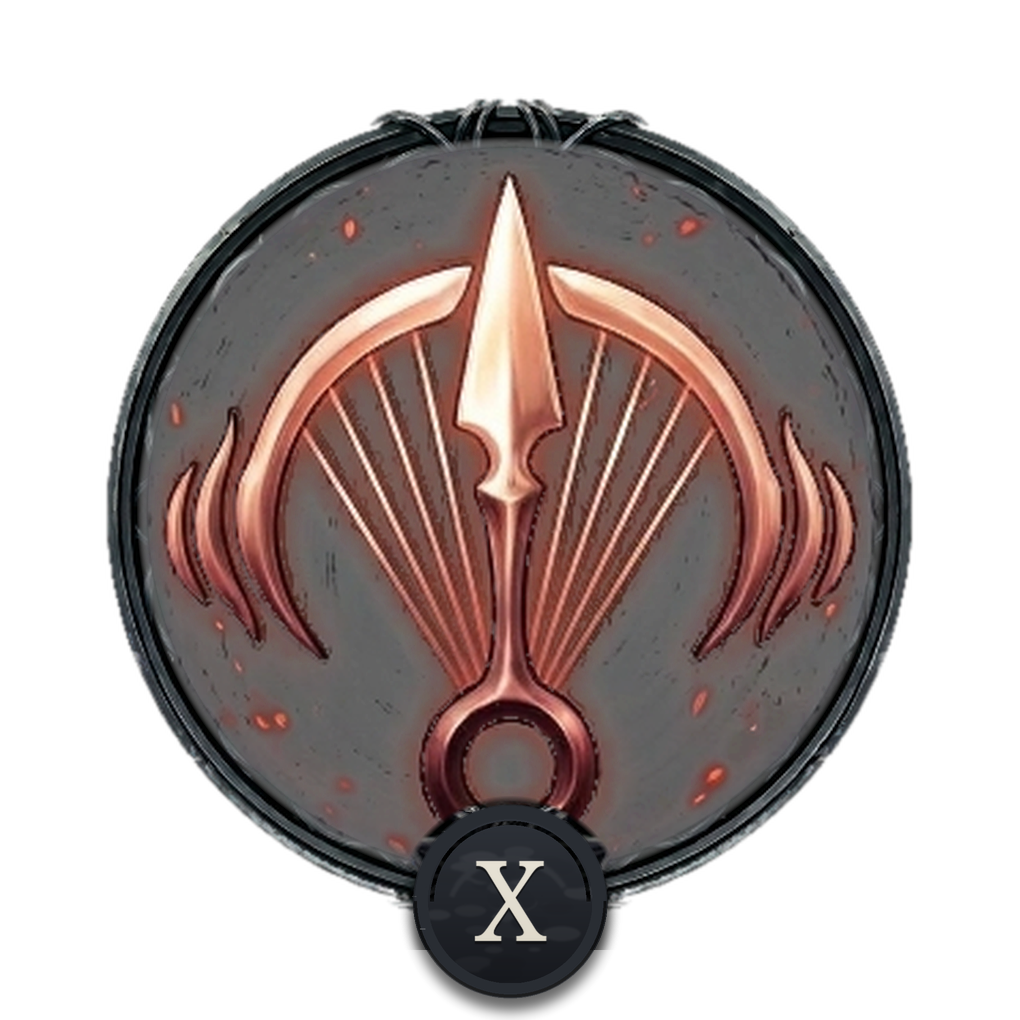
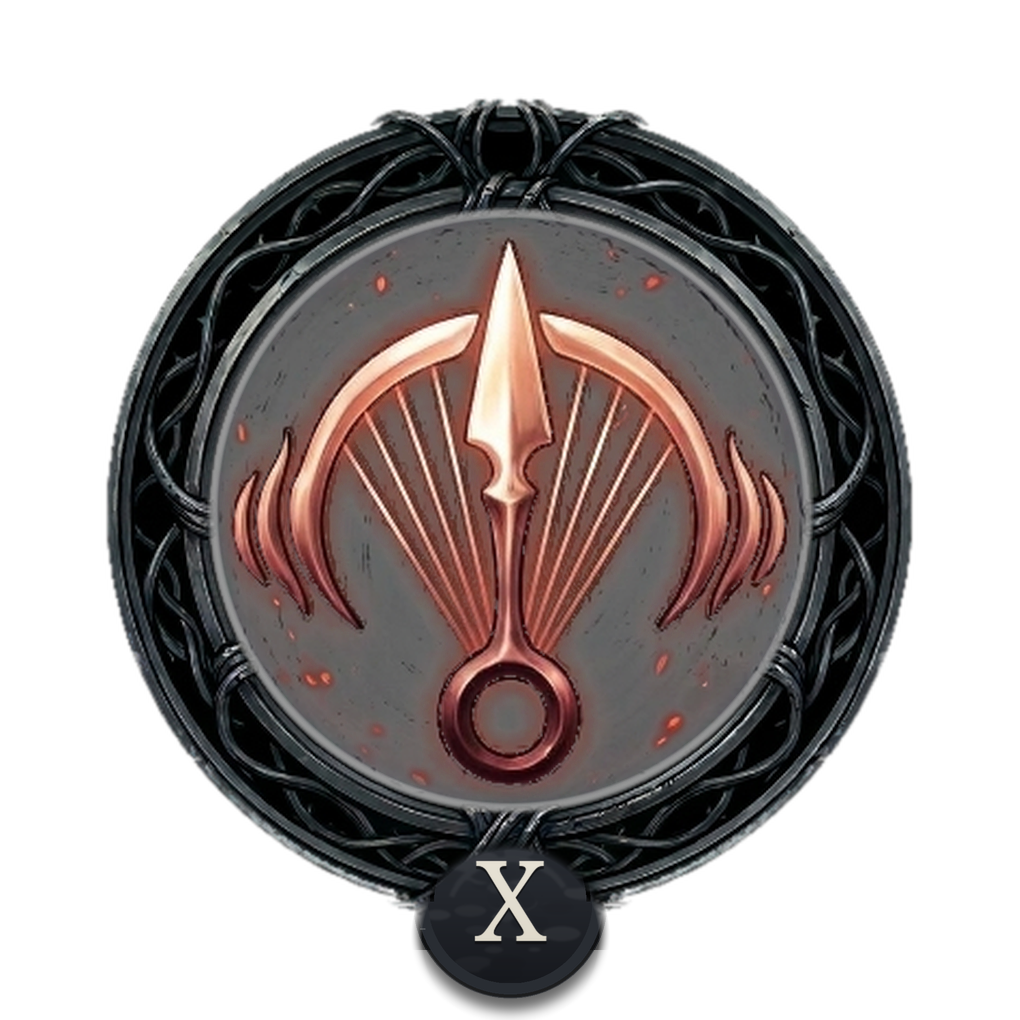
Silksong pad: the cluster keys at 0.9 with unified 30pt edge gaps (the fan tightened on its jump pivot, the row and the Needolin-Bind gap alike), the thorn Needolin's full woven frame restored in the plain and badge skins, and the layout editor's bar moved to the key-free top centre

Changed region(s): [[0.1216, 0.1216, 0.8814, 0.9422]]

diff --git a/dm/ios/Sources/DmGamepad.m b/dm/ios/Sources/DmGamepad.m
@@ -142,13 +142,13 @@ static BOOL padSkin(void) { const char *e = getenv("DM_PAD_SKIN"); return e && a
 static int silkSkinMode(void) { const char *e = getenv("DM_SILK_SKIN"); int m = e ? atoi(e) : 1; return m < 0 ? 0 : m > 3 ? 3 : m; }   // the launcher's button-skin choice for this pad: 0 glass, 1 the image skin, 2 the letter-badge skin (dm/padskin-badge), 3 the black-iron skin (dm/padskin-metal, the plain set's canvas, so no badge scaling); the image skin (1) when unset
 enum { SK_ALWAYS, SK_SKILL, SK_TOGGLE };
 static const struct { const char *art; int bit; int grp; CGFloat x, y, r; } k_skin[] = {
-    {"attack",   B_Y,     SK_ALWAYS, 0.770, 0.770, 0.0416},   // needle attack: the fan's left key, level with the jump pivot
-    {"jump",     B_B,     SK_ALWAYS, 0.898, 0.770, 0.0533},   // the fan's pivot at the bottom-right corner, the largest key
-    {"dash",     B_ZR,    SK_ALWAYS, 0.808, 0.574, 0.0416},   // Swift Step: tap dashes, hold sprints; the fan's 45-degree key
-    {"tool",     B_R,     SK_SKILL,  0.6055, 0.770, 0.0282},   // the equipped tool: in the attack row, leftmost of the three, a 45pt edge gap to Clawline at the reference size; an eye-key skill key
-    {"needolin", B_X,     SK_SKILL,  0.898, 0.2999, 0.0282},   // Needolin: above Bind in its column, a 45pt edge gap over it at the reference size, in its original round frame; an eye-key skill key (the eye hides it with the other two)
-    {"bind",     B_A,     SK_ALWAYS, 0.898, 0.493, 0.0416},   // Bind (heal): the fan's top key, straight above the jump pivot
-    {"clawline", B_ZL,    SK_SKILL,  0.6810, 0.770, 0.0282},   // Clawline: in the attack row between tool and attack, a 45pt edge gap each side at the reference size; an eye-key skill key
+    {"attack",   B_Y,     SK_ALWAYS, 0.7859, 0.770, 0.0374},   // needle attack: the fan's left key, level with the jump pivot
+    {"jump",     B_B,     SK_ALWAYS, 0.898, 0.770, 0.0480},   // the fan's pivot at the bottom-right corner, the largest key
+    {"dash",     B_ZR,    SK_ALWAYS, 0.8188, 0.5983, 0.0374},   // Swift Step: tap dashes, hold sprints; the fan's 45-degree key
+    {"tool",     B_R,     SK_SKILL,  0.6468, 0.770, 0.0254},   // the equipped tool: in the attack row, leftmost of the three, a 30pt edge gap to Clawline at the reference size; an eye-key skill key
+    {"needolin", B_X,     SK_SKILL,  0.898, 0.3631, 0.0254},   // Needolin: above Bind in its column, a 30pt edge gap over it at the reference size, in its original round frame; an eye-key skill key (the eye hides it with the other two)
+    {"bind",     B_A,     SK_ALWAYS, 0.898, 0.5271, 0.0374},   // Bind (heal): the fan's top key, straight above the jump pivot
+    {"clawline", B_ZL,    SK_SKILL,  0.7103, 0.770, 0.0254},   // Clawline: in the attack row between tool and attack, a 30pt edge gap each side at the reference size; an eye-key skill key
     {"eye",      0,       SK_TOGGLE, 0.670, 0.082, 0.0224},   // show / hide the skill keys
     {"map",      B_L,     SK_ALWAYS, 0.746, 0.082, 0.0224},   // quick map (the top row respaced evenly for four keys, shifted left so pause shares the fan's column)
     {"bag",      B_MINUS, SK_ALWAYS, 0.822, 0.082, 0.0224},   // inventory
@@ -440,7 +440,7 @@ static void pads_start(void);   // Physical controllers, below
     int _editSel, _editItem;                       // the editor's selected key and the one being dragged (a k_skin index, SKIN_N = the stick, -1 = none)
     UITouch *_editTouch; CGPoint _editGrab;        // the editor's drag in flight: its touch and where in the key it holds it
     UITouch *_eyeTouch; CGPoint _eyePoint; NSTimer *_eyeTimer; BOOL _eyeFired, _eyeMoved;   // the eye key's touch, watched for the editor's long press (a drag of the key in the editor disarms it)
-    UIView *_editBar; UILabel *_editInfo; UIButton *_editMinus, *_editPlus, *_editReset, *_editDone;   // the editor's bar across the top: the selected key's size, its - / + steppers, restore defaults, done
+    UIView *_editBar; UILabel *_editInfo; UIButton *_editMinus, *_editPlus, *_editReset, *_editDone;   // the editor's bar at the top centre, clear of every key: the selected key's size, its - / + steppers, restore defaults, done
     CAShapeLayer *_editRing;                       // the ring around the editor's selected key
     CALayer *_skipKey, *_padKey;   // the cutscene keys: the skin's Skip medallion at the Bind key's place, its Pad medallion at the eye key's place (drawn in every skin mode, glass included)
     int _padMode; BOOL _padPeek;                   // the host's pad mode (hle_hid.c dm_pad_mode) and the player's recall of the pad for the rest of the mode
@@ -542,7 +542,7 @@ static BOOL fullOnly(int b) { return b == B_LS || b == B_RS || b >= B_LEFT; }   
             _editBar = [[UIView alloc] initWithFrame:CGRectZero];   // the layout editor's bar: built once, shown only while editing (added last, above the glass box)
             _editBar.backgroundColor = [UIColor colorWithWhite:0 alpha:0.55]; _editBar.layer.cornerRadius = 10; _editBar.hidden = YES;
             [self addSubview:_editBar];
-            _editInfo = [[UILabel alloc] init]; _editInfo.textColor = UIColor.whiteColor; _editInfo.font = [UIFont systemFontOfSize:16]; [_editBar addSubview:_editInfo];
+            _editInfo = [[UILabel alloc] init]; _editInfo.textColor = UIColor.whiteColor; _editInfo.font = [UIFont systemFontOfSize:15]; _editInfo.adjustsFontSizeToFitWidth = YES; _editInfo.minimumScaleFactor = 0.75; [_editBar addSubview:_editInfo];   // the readout shrinks to fit the compact bar
             _editMinus = [self editButton:@"-" action:@selector(editMinusTapped)];
             _editPlus = [self editButton:@"+" action:@selector(editPlusTapped)];
             _editReset = [self editButton:[NSString stringWithUTF8String:"\xE6\x81\xA2\xE5\xA4\x8D\xE9\xBB\x98\xE8\xAE\xA4"] action:@selector(editResetTapped)];   // "restore defaults"
@@ -1021,9 +1021,9 @@ static void placeLabel(CATextLayer *t, CGPoint c, CGFloat fs) {
             _bagBtn[j].frame = CGRectMake(c.x - dd / 2, c.y - dd / 2, dd, dd); }
         if (_skipKey) { CGPoint c = skinCenter(5, b); CGFloat dd = skinR(5) * 2 * b.size.width; _skipKey.frame = CGRectMake(c.x - dd / 2, c.y - dd / 2, dd, dd); }   // the Skip medallion at the Bind key's place, at its size
         if (_padKey) { CGPoint c = skinCenter(7, b); CGFloat dd = skinR(7) * 2 * b.size.width; _padKey.frame = CGRectMake(c.x - dd / 2, c.y - dd / 2, dd, dd); }   // the Pad medallion at the eye key's place, at its size
-        if (_editBar) { CGFloat bw = fmin(600, b.size.width - 16); _editBar.frame = CGRectMake((b.size.width - bw) / 2, self.safeAreaInsets.top + 6, bw, 46);
-            _editInfo.frame = CGRectMake(12, 0, 190, 46); _editMinus.frame = CGRectMake(212, 3, 40, 40); _editPlus.frame = CGRectMake(260, 3, 40, 40);
-            _editReset.frame = CGRectMake(bw - 200, 3, 96, 40); _editDone.frame = CGRectMake(bw - 96, 3, 88, 40); }
+        if (_editBar) { CGFloat bw = 0.35 * b.size.width; _editBar.frame = CGRectMake(0.28 * b.size.width, self.safeAreaInsets.top + 6, bw, 46);   // the top centre is key-free (the top row's leftmost key, the eye, starts at 0.648 of the width): the bar stays inside x 0.28-0.63 of the width, compact, so it never covers a key
+            _editInfo.frame = CGRectMake(8, 0, bw - 238, 46); _editMinus.frame = CGRectMake(bw - 224, 6, 34, 34); _editPlus.frame = CGRectMake(bw - 184, 6, 34, 34);
+            _editReset.frame = CGRectMake(bw - 144, 6, 76, 34); _editDone.frame = CGRectMake(bw - 62, 6, 54, 34); }
         if (_editRing) { BOOL show = _editing && _editSel >= 0; _editRing.hidden = !show;
             if (show) setPath(_editRing, circlePath([self editCentre:_editSel], [self editRadius:_editSel] * 1.12 + 4)); }
         if (_sGlassBox) {
